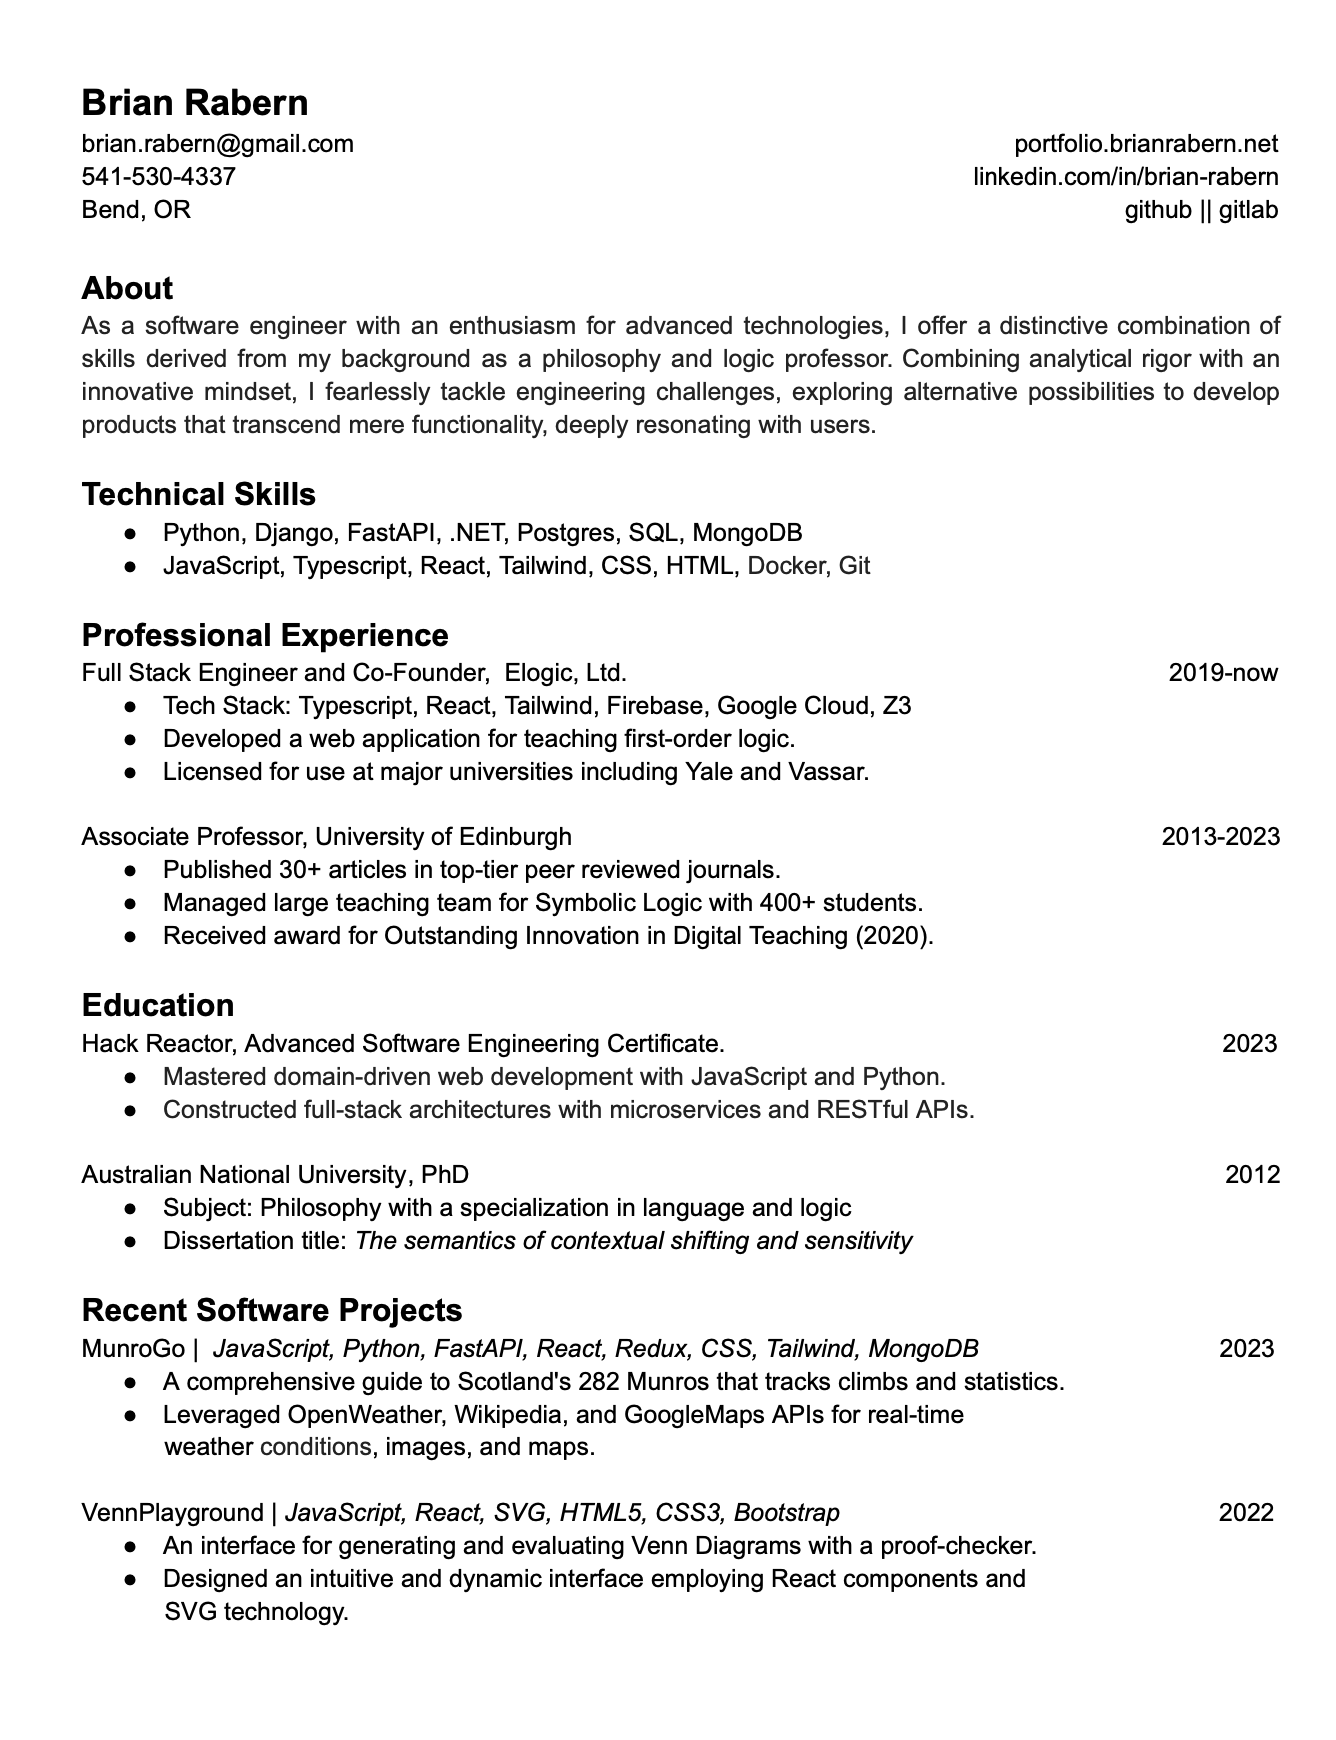
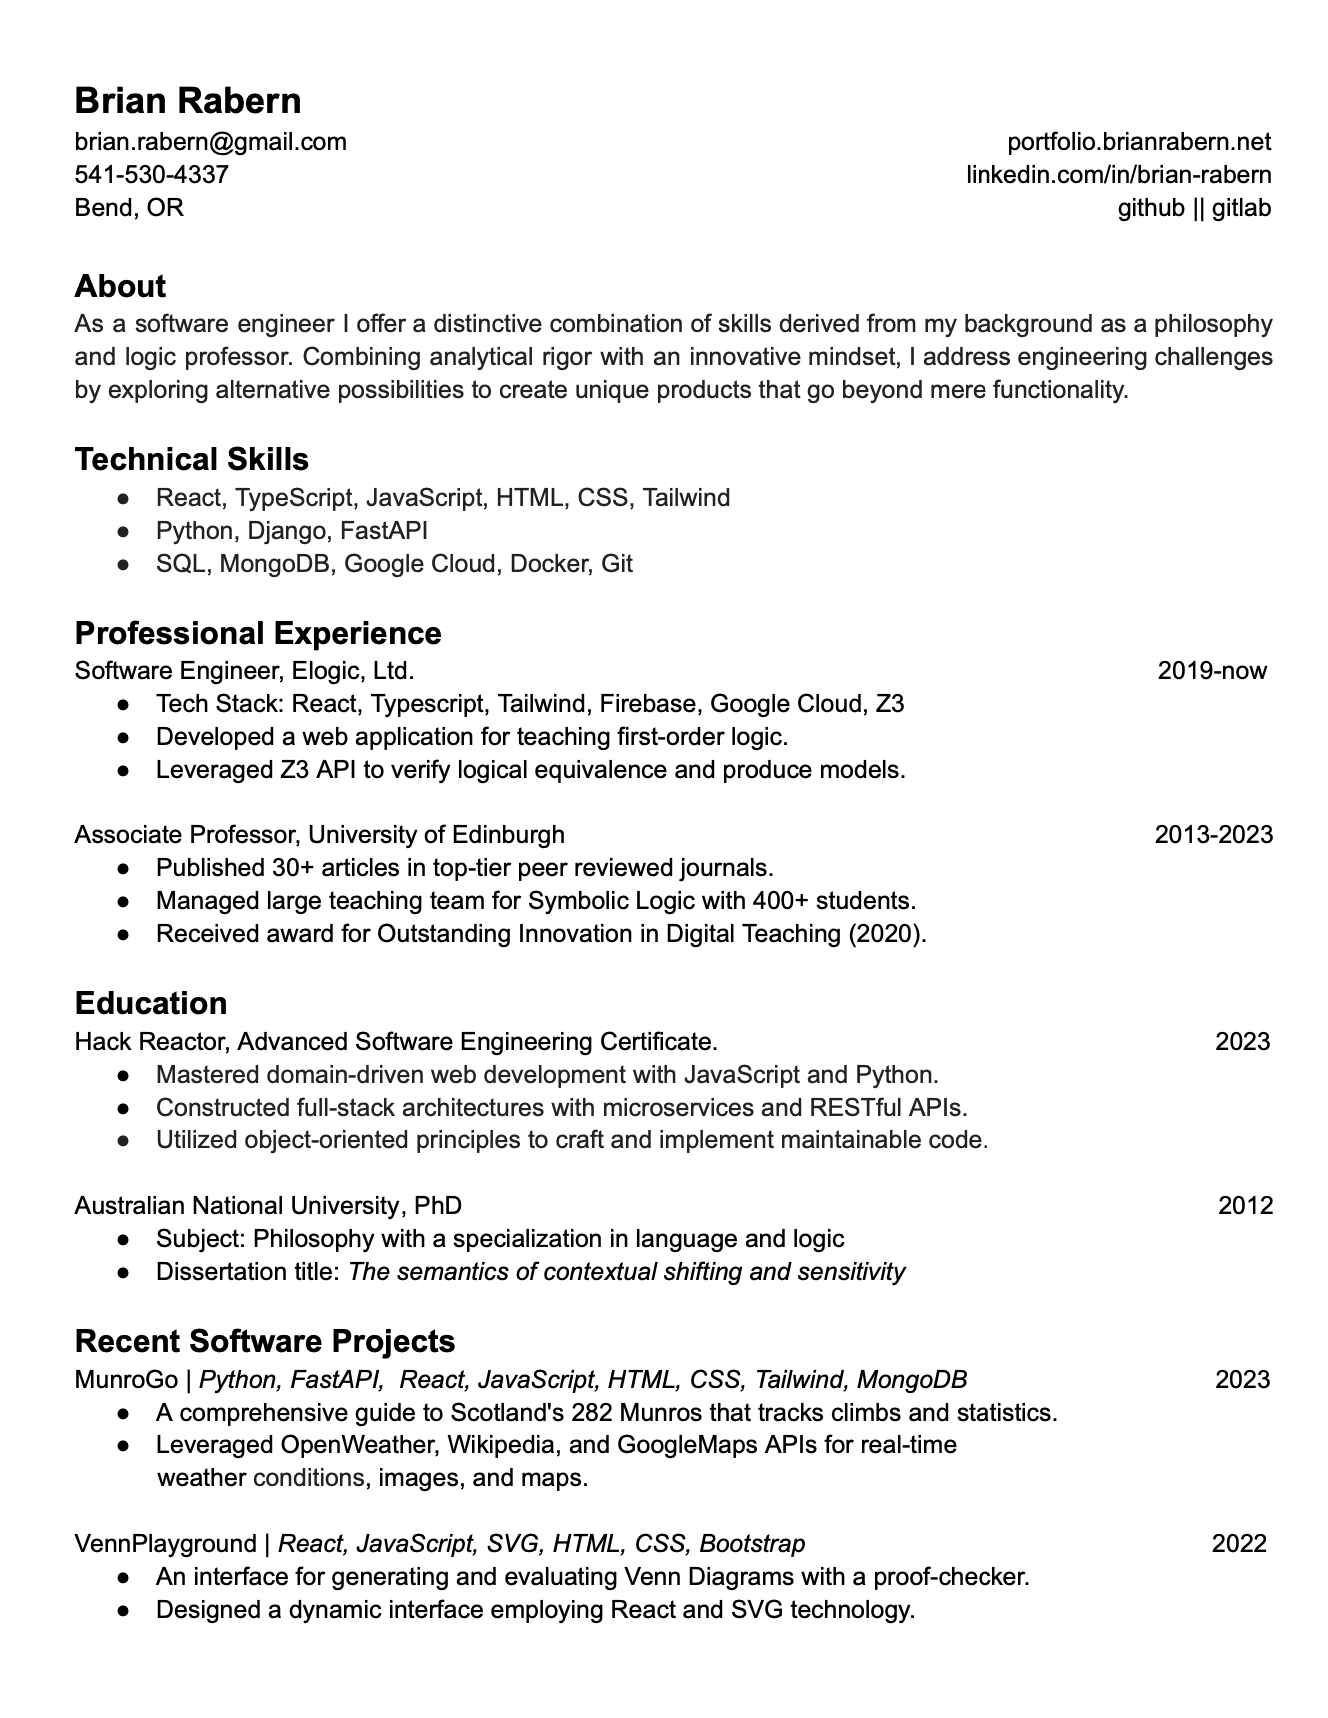
added symbolify_it

diff --git a/src/Home.jsx b/src/Home.jsx
@@ -20,6 +20,7 @@ import {
   SiBootstrap,
   SiTypescript,
   SiFirebase,
+  SiNextdotjs,
 } from "react-icons/si";
 import { FaCss3 } from "react-icons/fa";
 import Typewriter from "typewriter-effect";
@@ -236,13 +237,13 @@ export default function Home() {
           {/* <div className="tooltip" data-tip="swipe left/right"> */}
           <div className="carousel w-full">
             <div id="item1" className="carousel-item w-full h-full">
-              <div className="justify-center text-center shadow-lg p-10 rounded-xl my-10 bg-secondary flex-1">
+              <div className="justify-center text-center shadow-lg p-10 rounded-xl my-10 bg-primary flex-1">
                 <div className="tooltip" data-tip="swipe left/right">
                   <h3 className="text-default text-2xl font-medium pb-2">
                     MunroGo
                   </h3>
                 </div>
-                <div className="mb-2 text-warning">
+                <div className="mb-2 text-default">
                   [<a href="https://gitlab.com/elijahram/munro-go">code</a>] [
                   <a href="https://elijahram.gitlab.io/munro-go">live</a>]
                 </div>
@@ -270,12 +271,48 @@ export default function Home() {
                 </div>
               </div>
             </div>
+            <div id="item1.5" className="carousel-item w-full h-full">
+              <div className="justify-center text-center shadow-lg p-10 rounded-xl my-10 bg-primary flex-1">
+                <div className="tooltip" data-tip="swipe left/right">
+                  <h3 className="text-default text-2xl font-medium pb-2">
+                    symbolify_it
+                  </h3>
+                </div>
+                <div className="mb-2 text-default">
+                  [
+                  <a href="https://github.com/brianrabern/symbolizations">
+                    code
+                  </a>
+                  ] [<a href="https://symbolizations.vercel.app/">live</a>]
+                </div>
+                <iframe
+                  src="https://youtube.com/embed/H7TNHlLP9AQ"
+                  allow="accelerometer; autoplay; clipboard-write; encrypted-media; gyroscope; picture-in-picture; web-share"
+                  title="symbolify_it"
+                  allowFullScreen
+                  className="w-full h-80 lg:h-[42rem]"
+                ></iframe>
+
+                <p className="py-2 text-default mt-3">
+                  Enables users to practice their logic symbolization skills by
+                  translating English sentences into the corresponding formal
+                  language representations.
+                </p>
+                <div className="justify-end items-center text-2xl flex space-x-4 text-default flex-wrap mt-3">
+                  <SiNextdotjs />
+                  <SiReact />
+                  <SiTypescript />
+                  <SiPython />
+                  <SiTailwindcss />
+                </div>
+              </div>
+            </div>
             <div id="item2" className="carousel-item w-full h-full">
-              <div className="justify-center text-center shadow-lg p-10 rounded-xl my-10  bg-secondary flex-1">
+              <div className="justify-center text-center shadow-lg p-10 rounded-xl my-10  bg-primary flex-1">
                 <h3 className="text-default text-2xl font-medium pb-2">
                   vennPlayground
                 </h3>
-                <div className="mb-2 text-warning">
+                <div className="mb-2 text-default">
                   [
                   <a href="https://github.com/brianrabern/vennPlayground">
                     code
@@ -309,11 +346,11 @@ export default function Home() {
               </div>
             </div>
             <div id="item3" className="carousel-item w-full h-full">
-              <div className="justify-center text-center shadow-lg p-10 rounded-xl my-10  bg-secondary flex-1">
+              <div className="justify-center text-center shadow-lg p-10 rounded-xl my-10  bg-primary flex-1">
                 <h3 className="text-default text-2xl font-medium pb-2">
                   Hofstadter's MU Playground
                 </h3>
-                <div className="mb-2 text-warning">
+                <div className="mb-2 text-default">
                   [<a href="https://mu-playground.brianrabern.net/">live</a>]
                 </div>
                 <iframe
@@ -337,11 +374,11 @@ export default function Home() {
               </div>
             </div>
             <div id="item4" className="carousel-item w-full h-full">
-              <div className="justify-center text-center shadow-lg p-10 rounded-xl my-10  bg-secondary flex-1">
+              <div className="justify-center text-center shadow-lg p-10 rounded-xl my-10  bg-primary flex-1">
                 <h3 className="text-default text-2xl font-medium pb-2">
                   Elogic
                 </h3>
-                <div className="mb-2 text-warning">
+                <div className="mb-2 text-default">
                   [<a href="https://info.elogic.land/">license info</a>]
                 </div>
                 <iframe
@@ -370,7 +407,7 @@ export default function Home() {
         </section>
         <div className="flex items-center justify-center mb-12">
           <Link to="/resume">
-            <button className="btn btn-wide rounded bg-secondary text-default">
+            <button className="btn btn-wide rounded bg-primary text-black hover:bg-secondary border-0">
               résumé
             </button>
           </Link>

diff --git a/src/Resume.jsx b/src/Resume.jsx
@@ -314,9 +314,7 @@ const Resume = () => {
 
           <div>
             <div className="py-3 px-5">
-              <p className="font-medium text-default">
-                Full Stack Engineer and Co-Founder
-              </p>
+              <p className="font-medium text-default">Software Engineer</p>
               <p className=" text-gray-600">Elogic, Ltd.</p>
               <p className="text-gray-600">2020-present</p>
             </div>
@@ -379,8 +377,11 @@ const Resume = () => {
             <ul className="px-10 list-disc text-gray-600">
               <li>
                 Mastered domain-driven web development with JavaScript and
-                Python. Constructed full-stack architectures with microservices
-                and RESTful APIs.
+                Python.
+              </li>{" "}
+              <li>
+                Constructed full-stack architectures with microservices and
+                RESTful APIs.
               </li>
             </ul>
           </div>
@@ -442,6 +443,32 @@ const Resume = () => {
             <ul className="px-10 list-disc text-gray-600">
               <li>
                 Python, JavaScript, FastAPI, React, Redux, MongoDB, Tailwind
+              </li>
+            </ul>
+          </div>
+          {/* app1.5*/}
+          <div>
+            <div className="py-3 px-5">
+              <p className="font-medium text-default flex gap-3 items-center">
+                symbolify_it{" "}
+                <a href="https://github.com/brianrabern/symbolizations">
+                  <AiFillGithub className="hover:text-warning" />
+                </a>
+                <a href="https://symbolizations.vercel.app/">
+                  <FaGlobe className="hover:text-info" />
+                </a>
+              </p>
+              <p className="text-gray-600">
+                Enables users to practice their logic symbolization skills by
+                translating English sentences into the corresponding formal
+                language representations.
+              </p>
+            </div>
+
+            <ul className="px-10 list-disc text-gray-600">
+              <li>
+                {" "}
+                React, Next.js, Typescript, Python, Nearely.js, Z3, Tailwind
               </li>
             </ul>
           </div>
@@ -511,7 +538,7 @@ const Resume = () => {
           </div>
         </section>
 
-        <section className="flex justify-between">
+        <section>
           <div>
             <h2 className="text-xl text-accent font-medium mt-5">
               Publication Highlights
@@ -602,28 +629,31 @@ const Resume = () => {
                 </p>
               </div>
 
-              <div className="py-3 px-5">
-                <p className="text-gray-600 flex gap-3 items-center">
-                  <a
-                    className="text-gray-600 hover:text-info"
-                    href="https://philpeople.org/profiles/brian-rabern"
-                  >
-                    All publications
+              <div className="flex justify-between">
+                <div className="py-3 px-5">
+                  <p className="text-gray-600 flex gap-3 items-center">
+                    <a
+                      className="text-gray-600 hover:text-info"
+                      href="https://philpeople.org/profiles/brian-rabern"
+                    >
+                      All publications
+                    </a>
+                  </p>
+                </div>
+
+                <div>
+                  <a href="https://brianrabern.net/science-of-meaning.html">
+                    {" "}
+                    <img
+                      src="https://brianrabern.net/som-cover.png"
+                      height="300"
+                      width="200"
+                      alt="science of meaning"
+                    />
                   </a>
-                </p>
+                </div>
               </div>
             </div>
-          </div>
-          <div>
-            <a href="https://brianrabern.net/science-of-meaning.html">
-              {" "}
-              <img
-                src="https://brianrabern.net/som-cover.png"
-                height="300"
-                width="200"
-                alt="science of meaning"
-              />
-            </a>
           </div>
         </section>
       </main>

diff --git a/public/index.html b/public/index.html
@@ -13,7 +13,7 @@
 
     <title>rabern's portfolio</title>
     <script>
-      localStorage.setItem("theme", "business");
+      localStorage.setItem("theme", "bumblebee");
     </script>
   </head>
   <body>
